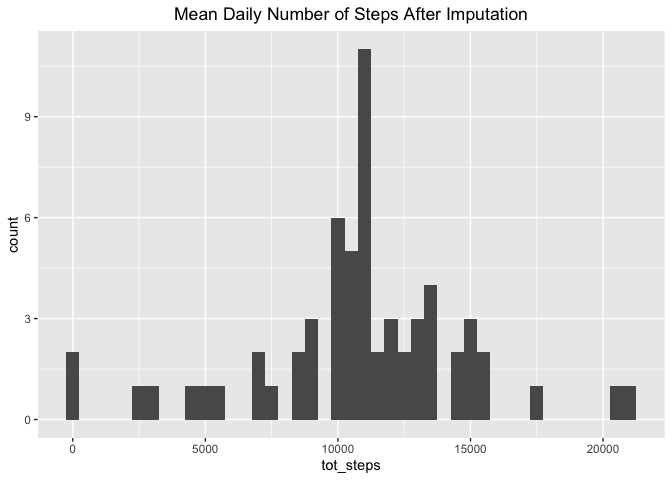
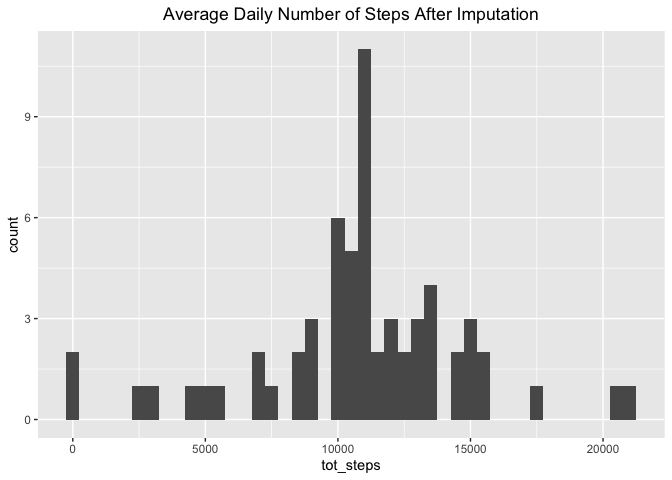
Final commit

Changed region(s): [[0.25, 0.0, 0.8125, 0.0625]]

diff --git a/PA1_template.html b/PA1_template.html
@@ -506,11 +506,11 @@ plot_hist_impute &lt;- df_impute %&gt;%
         summarize(tot_steps = sum(steps)) %&gt;%
         ggplot(aes(tot_steps)) +
         geom_histogram(binwidth = 500) +         
-        ggtitle(&quot;Mean Daily Number of Steps After Imputation&quot;) + 
+        ggtitle(&quot;Average Daily Number of Steps After Imputation&quot;) + 
         theme(plot.title = element_text(hjust=0.5))</code></pre>
 <pre><code>## `summarise()` ungrouping output (override with `.groups` argument)</code></pre>
 <pre class="r"><code>plot_hist_impute</code></pre>
[2 lines of base64/hex data omitted]
 <pre class="r"><code>#mean/median
 df_impute_dt &lt;- df_impute %&gt;% 
         group_by(date) %&gt;% 

diff --git a/PA1_template.md b/PA1_template.md
@@ -10,26 +10,67 @@ output:
 
 ## Loading and preprocessing the data
 
-```{r preprocessing}
+
+```r
 library(tidyverse)
+```
+
+```
+## ── Attaching packages ─────────────────────────────────────── tidyverse 1.3.0 ──
+```
+
+```
+## ✓ ggplot2 3.3.2     ✓ purrr   0.3.4
+## ✓ tibble  3.0.4     ✓ dplyr   1.0.2
+## ✓ tidyr   1.1.2     ✓ stringr 1.4.0
+## ✓ readr   1.4.0     ✓ forcats 0.5.0
+```
+
+```
+## ── Conflicts ────────────────────────────────────────── tidyverse_conflicts() ──
+## x dplyr::filter() masks stats::filter()
+## x dplyr::lag()    masks stats::lag()
+```
+
+```r
 df1 <- read_csv("activity.zip") %>%
         drop_na()
 ```
 
+```
+## 
+## ── Column specification ────────────────────────────────────────────────────────
+## cols(
+##   steps = col_double(),
+##   date = col_date(format = ""),
+##   interval = col_double()
+## )
+```
+
 ## What is mean total number of steps taken per day?
 
-```{r mean_steps, echo=TRUE}
 
+```r
 df1 <- df1 %>% 
         group_by(date) %>% 
         summarize(tot_steps = sum(steps)) 
+```
 
+```
+## `summarise()` ungrouping output (override with `.groups` argument)
+```
+
+```r
 df1 %>% 
         ggplot(aes(tot_steps)) +
         geom_histogram(binwidth = 600) + 
         ggtitle("Mean Daily Number of Steps") + 
         theme(plot.title = element_text(hjust=0.5))
+```
 
+![](PA1_template_files/figure-html/mean_steps-1.png)<!-- -->
+
+```r
 mean_steps <- round(df1 %>% 
         summarise(mean_steps = mean(tot_steps)))
 
@@ -37,20 +78,40 @@ median_steps <- round(df1 %>%
         summarise(median_steps = median(tot_steps)))
 
 print(paste("The mean number of steps is",mean_steps, "and the median number of steps is",median_steps))
+```
 
-
+```
+## [1] "The mean number of steps is 10766 and the median number of steps is 10765"
 ```
 
 ## What is the average daily activity pattern?
 
-```{r avg_daily_pattern}
-df2 <- read_csv("activity.zip") 
 
+```r
+df2 <- read_csv("activity.zip") 
+```
+
+```
+## 
+## ── Column specification ────────────────────────────────────────────────────────
+## cols(
+##   steps = col_double(),
+##   date = col_date(format = ""),
+##   interval = col_double()
+## )
+```
+
+```r
 df_int <- df2 %>% 
         group_by(interval) %>% 
         summarize(avg_steps = mean(steps,na.rm = TRUE))
+```
 
+```
+## `summarise()` ungrouping output (override with `.groups` argument)
+```
 
+```r
 plot_1 <- df_int %>% 
         ggplot(aes(x = interval, y = avg_steps)) +
         geom_line() + 
@@ -58,23 +119,36 @@ plot_1 <- df_int %>%
         theme(plot.title = element_text(hjust=0.5))
 
 plot_1
+```
 
+![](PA1_template_files/figure-html/avg_daily_pattern-1.png)<!-- -->
+
+```r
 interval_max<-df_int[which.max(df_int$avg_steps),][1]
 steps_max<-round(df_int[which.max(df_int$avg_steps),][2])
 
 
 print(paste(interval_max, "is the interval with the highest number of steps,", "which has an average of",steps_max,"steps."))
+```
 
-
+```
+## [1] "835 is the interval with the highest number of steps, which has an average of 206 steps."
 ```
 
 
 ## Imputing missing values
 
-```{r impute, echo=TRUE}
+
+```r
 #Calculate and report the total number of missing values in the dataset (i.e. the total number of rows with \color{red}{\verb|NA|}NAs)
 sum(is.na(df2$steps))
+```
 
+```
+## [1] 2304
+```
+
+```r
 df_impute <- df2 %>%
         group_by(interval) %>%
         mutate(steps = ifelse(is.na(steps), mean(steps, na.rm = TRUE), steps))
@@ -90,28 +164,47 @@ plot_hist_impute <- df_impute %>%
         geom_histogram(binwidth = 500) +         
         ggtitle("Average Daily Number of Steps After Imputation") + 
         theme(plot.title = element_text(hjust=0.5))
+```
 
+```
+## `summarise()` ungrouping output (override with `.groups` argument)
+```
+
+```r
 plot_hist_impute
+```
 
+![](PA1_template_files/figure-html/impute-1.png)<!-- -->
+
+```r
 #mean/median
 df_impute_dt <- df_impute %>% 
         group_by(date) %>% 
         summarise(tot_steps = sum(steps)) 
+```
 
+```
+## `summarise()` ungrouping output (override with `.groups` argument)
+```
+
+```r
 mean_steps_i <- round(df_impute_dt %>% 
         summarise(mean_steps = mean(tot_steps)))
 median_steps_i <- round(df_impute_dt %>% 
         summarise(median_steps  = median(tot_steps)))
 
 print(paste("The mean number of steps after imputing is",mean_steps_i, "and the median number of steps after inputing is",median_steps_i))
+```
 
+```
+## [1] "The mean number of steps after imputing is 10766 and the median number of steps after inputing is 10766"
 ```
 
 
 ## Are there differences in activity patterns between weekdays and weekends?
 
-```{r weekend, echo=TRUE}
 
+```r
 df_impute <- df_impute %>% 
         mutate(weekend = fct_collapse(weekdays(date),
                      Weekend = c("Saturday", "Sunday"),
@@ -123,8 +216,13 @@ df_impute <- df_impute %>%
 df_impute_plot <- df_impute %>% 
         group_by(interval,weekend) %>% 
         summarize(avg_steps = mean(steps,na.rm = TRUE))
+```
 
+```
+## `summarise()` regrouping output by 'interval' (override with `.groups` argument)
+```
 
+```r
 plot_3 <- df_impute_plot %>% 
         ggplot(aes(x = interval, y = avg_steps)) +
         geom_line() + 
@@ -133,5 +231,6 @@ plot_3 <- df_impute_plot %>%
         theme(plot.title = element_text(hjust=0.5))
         
 plot_3
-
 ```
+
+![](PA1_template_files/figure-html/weekend-1.png)<!-- -->
